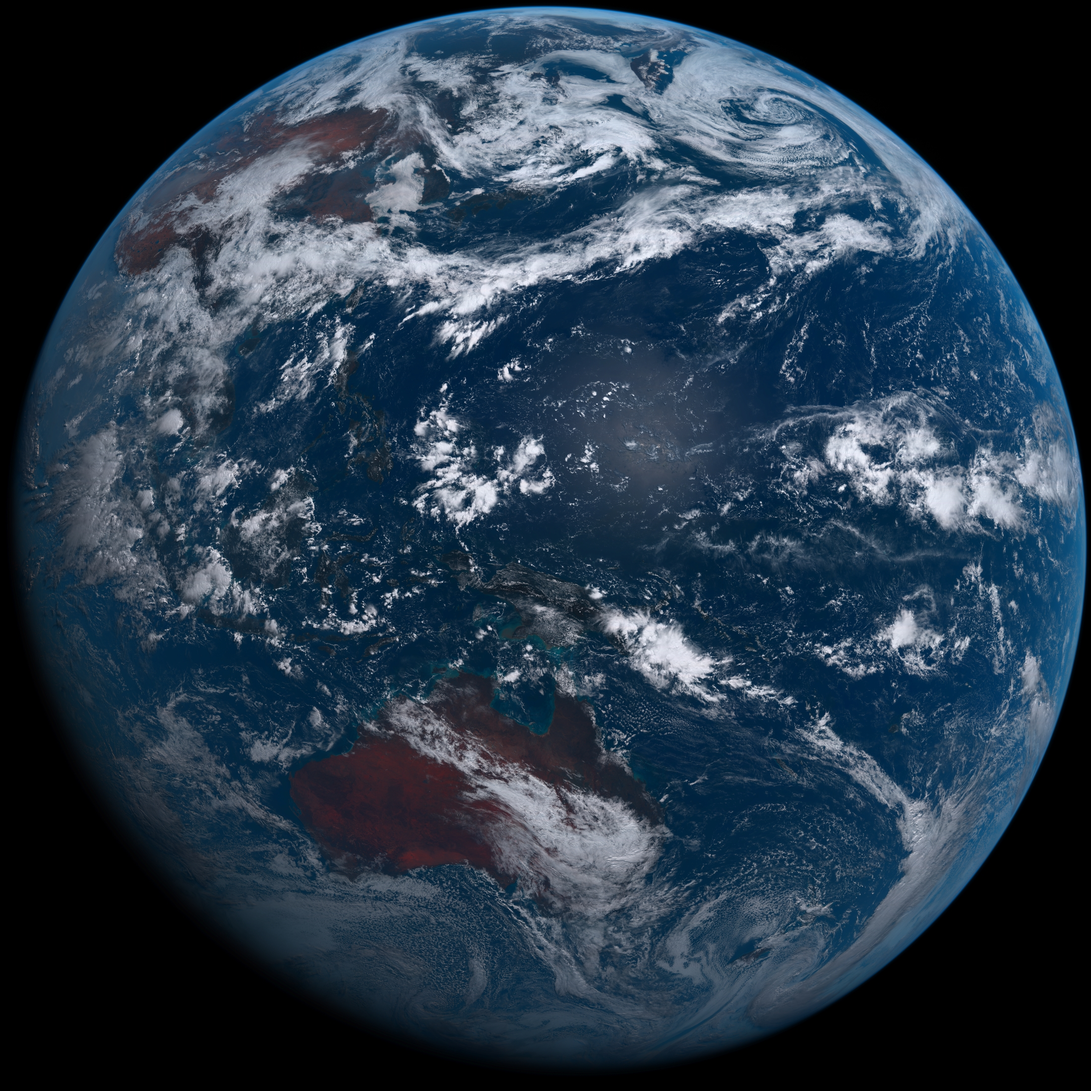
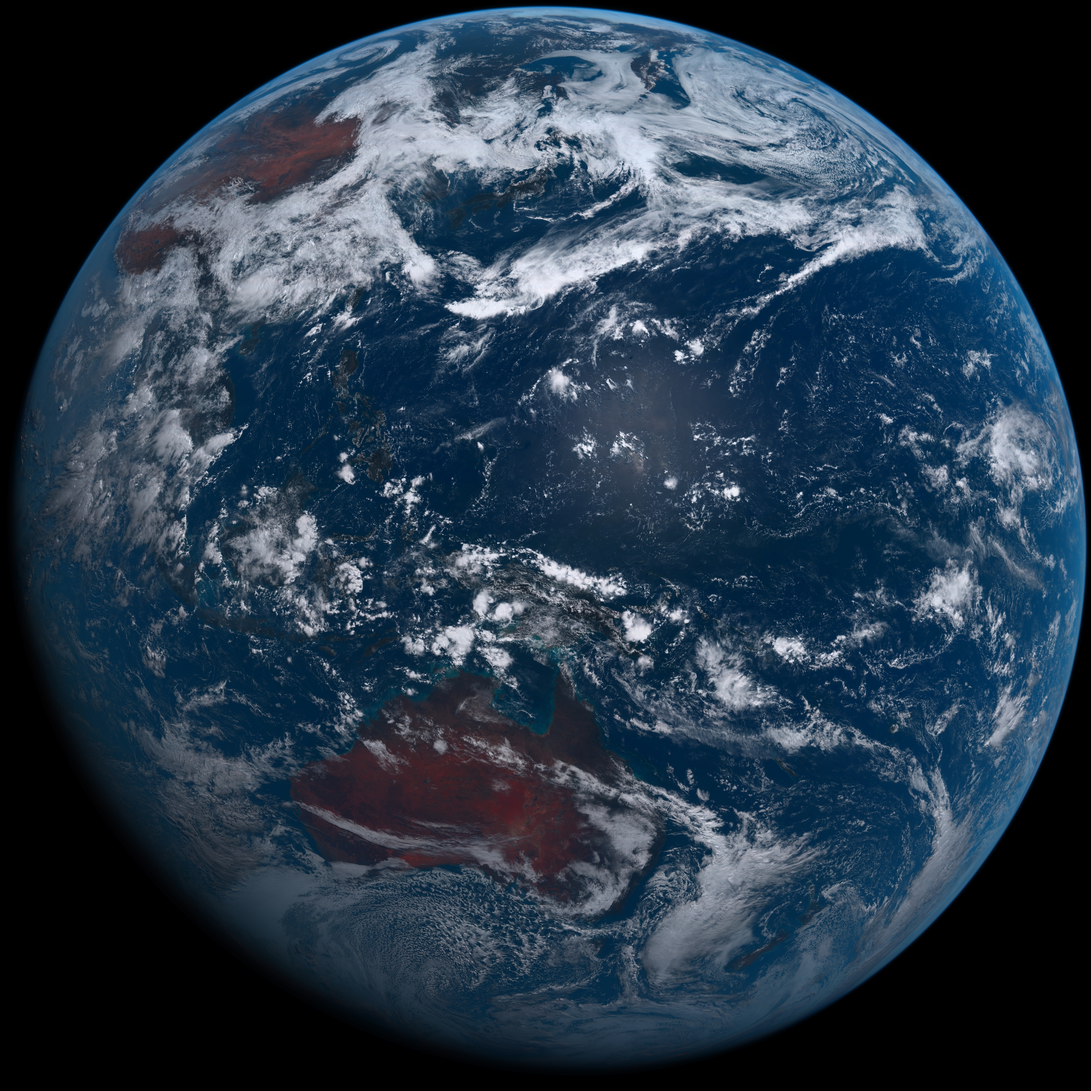
Saturday 06/04/2022 03:33 +00

diff --git a/README.md b/README.md
@@ -1,12 +1,12 @@
 # ps1
 
 - ### [BingWallpaper](https://github.com/milankomaj/ps1/wiki/BingWallpaper)  [![Generate Wallpapers Github README.md](https://github.com/milankomaj/ps1/actions/workflows/GenWall.yml/badge.svg?event=schedule)](https://github.com/milankomaj/ps1/actions/workflows/GenWall.yml)
-- ##### Friday 03/06/2022 03:38:17 +00
+- ##### Saturday 04/06/2022 03:33:10 +00
 <img src="BingWallpaper/latest.jpg" width="700" height="auto" title="👉  BingWallpaper  👈">
 
 
 - ### [Himawari](https://github.com/milankomaj/ps1/wiki/Himawari) [![Generate Wallpapers Github README.md](https://github.com/milankomaj/ps1/actions/workflows/GenWall.yml/badge.svg?event=schedule)](https://github.com/milankomaj/ps1/actions/workflows/GenWall.yml)
-- ##### Friday 03/06/2022 03:38:52 +00
+- ##### Saturday 04/06/2022 03:33:46 +00
 <img src="Himawari/latest.jpg" width="auto" height="371" title="👉  Himawari  👈"> <img src="Himawari/pifd/himawari_pifd.webp" width="auto" height="371"/>
 
 
